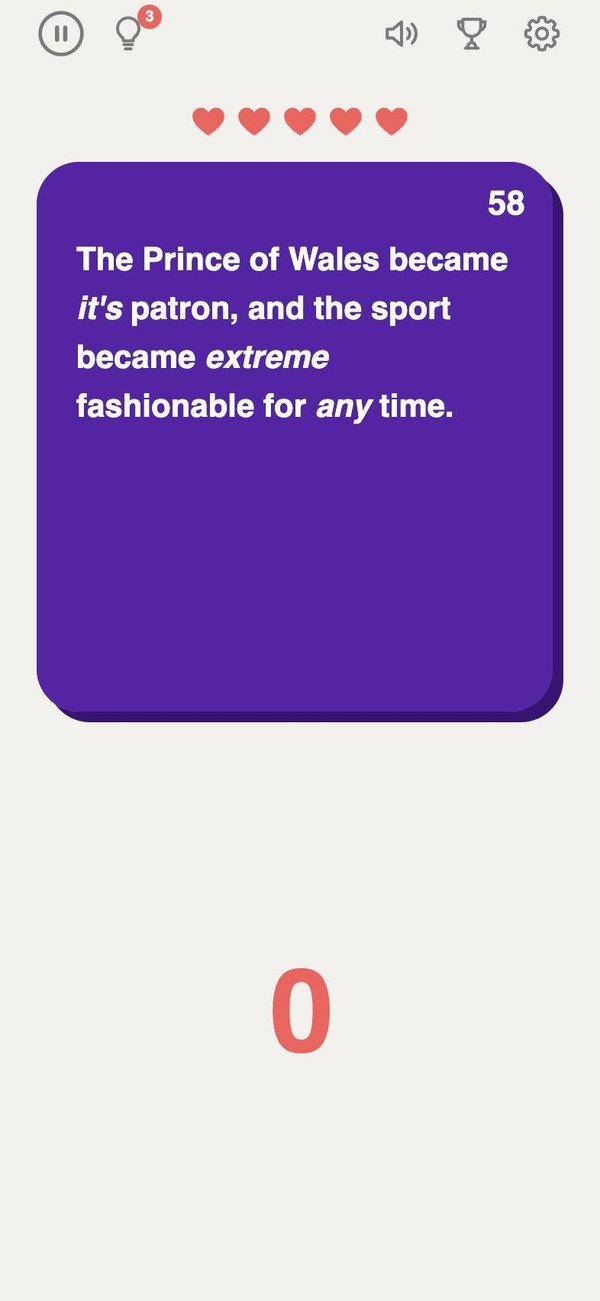
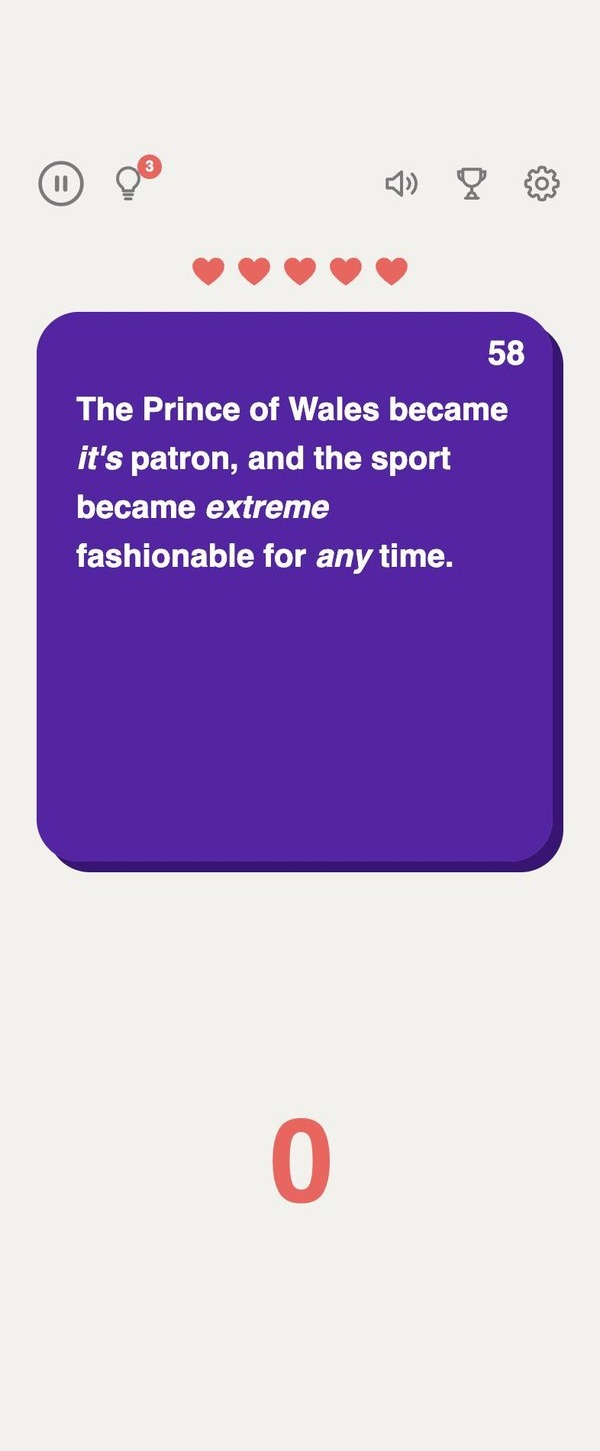
Demo RETRY/EXIT, reminder, journey fix

diff --git a/demo.js b/demo.js
@@ -36,6 +36,7 @@
   /* Scoring as in the app: first correct answer 1, then 2 each, 10 each once the score reaches 15; a hinted word is worth half (rounded up). */
   function points(hinted) { var p = S.correct === 0 ? 1 : (S.score >= 15 ? 10 : 2); return hinted ? Math.ceil(p / 2) : p; }
   var level = "easy";
+  var remind = true;
   var root = document.querySelector(".phone .mock");
   if (!root) return;
   var S = null;
@@ -64,9 +65,11 @@
       '<div class="set-btns">' + ["easy", "medium", "hard"].map(function (k) {
         return '<button class="lvl' + (k === level ? " sel" : "") + '" data-lvl="' + k + '">' + LEVELS[k].label + "</button>";
       }).join("") + "</div>" +
+      '<div class="set-rem"><span>Daily reminder</span><button class="sw' + (remind ? " on" : "") + '" role="switch" aria-checked="' + remind + '" aria-label="Daily reminder"><i></i></button></div>' +
       '<a class="set-pp" href="privacy.html">Privacy Policy</a></div>';
     on(".back", menu);
     on(".lvl", function (el) { level = el.getAttribute("data-lvl"); settings(); });
+    on(".sw", function () { remind = !remind; settings(); });
   }
 
   /* ---------- game ---------- */
@@ -75,6 +78,13 @@
     var L = LEVELS[level];
     var pool = shuffle(CARDS.filter(function (c) { return c.errors.length <= L.maxErr; }));
     S = { L: L, deck: pool.slice(0, ROUNDS), i: 0, played: 0, score: 0, correct: 0, hearts: HEARTS, hints: HINTS, timer: null, swipeTimer: null };
+    loadCard();
+  }
+  /* RETRY, as in the app: score, hearts and hints reset, but the deck continues from the card you failed on */
+  function retryGame() {
+    stopTimers();
+    var deck = S.deck.slice(S.i).concat(S.deck.slice(0, S.i));
+    S = { L: S.L, deck: deck, i: 0, played: 0, score: 0, correct: 0, hearts: HEARTS, hints: HINTS, timer: null, swipeTimer: null };
     loadCard();
   }
   function loadCard() {
@@ -212,9 +222,10 @@
         '<div class="hearts dim">' + hearts() + "</div>" +
         '<div class="chips"><span class="chip ghost"></span></div>' +
         '<div class="card dim"><span class="tm">' + S.left + '</span><div class="txt">' + S.tokens.map(function (t) { if (t.fixed) return t.err.correct === "\u2014" ? "" : esc(t.err.correct); return t.err ? '<span class="w' + (S.L.italic ? " it" : "") + '">' + esc(t.text) + "</span>" : esc(t.text); }).join("").replace(/\s{2,}/g, " ") + "</div>" +
-          '<div class="over-score">' + S.score + '</div><button class="pbtn resume mm">MAIN MENU</button></div>' +
+          '<div class="over-score">' + S.score + '</div><button class="pbtn resume retry">RETRY</button><button class="pbtn exit quitb">EXIT</button></div>' +
         '<div class="score dim">' + S.score + "</div>";
-      on(".mm", menu);
+      on(".retry", retryGame);
+      on(".quitb", menu);
       return;
     }
     root.innerHTML =

diff --git a/site.css b/site.css
@@ -89,7 +89,12 @@ section.after-feats{padding-top:3.5rem !important}
 .phone .set-btns{display:flex;flex-direction:column;gap:.75rem;width:70%;margin:auto 0}
 .phone .lvl{background:#2E1A5A;color:#fff;border:0;border-radius:999px;padding:.7rem 0;font:inherit;font-weight:800;font-size:1.05rem;cursor:pointer;box-shadow:0 .3rem 0 #B56CE0;box-sizing:border-box;border:3px solid transparent}
 .phone .lvl.sel{border-color:var(--coral)}
-.phone .set-pp{color:#8A8798;font-weight:700;font-size:.85rem;text-decoration:underline;margin-top:auto}
+.phone .set-btns{margin:auto 0 0}
+.phone .set-rem{margin-top:auto;width:84%;background:#fff;border-radius:.8rem;padding:.6rem .8rem;display:flex;align-items:center;justify-content:space-between;color:var(--ink);font-weight:600;font-size:.9rem}
+.phone .sw{width:2.6rem;height:1.5rem;border-radius:999px;border:0;background:#D9D4E3;position:relative;cursor:pointer;padding:0;transition:background .2s}
+.phone .sw i{position:absolute;top:.15rem;left:.15rem;width:1.2rem;height:1.2rem;border-radius:50%;background:#fff;box-shadow:0 1px 3px rgba(0,0,0,.25);transition:left .2s}
+.phone .sw.on{background:var(--purple)}.phone .sw.on i{left:1.25rem}
+.phone .set-pp{color:#8A8798;font-weight:700;font-size:.85rem;text-decoration:underline;margin-top:.7rem}
 .phone .hud button.ic{cursor:pointer;padding:0;background:none;border:0;font:inherit}
 .phone .mock{user-select:none;-webkit-user-select:none}
 .phone .hud .l,.phone .hud .r{display:flex;align-items:center;gap:.9rem}
@@ -203,6 +208,7 @@ body.journey-page>.wrap{width:100%;flex:none}
 .jarrow{width:2.5rem;height:auto;flex:none;margin-top:.6rem}
 .jphone{flex:0 0 15rem;position:relative;height:30rem;margin-left:.5rem}
 .jphone .phone{width:14rem;top:1.5rem;left:50%;transform:translateX(-50%) rotate(-5deg)}
+.jphone .shotimg{object-position:top}
 .jcrown{position:absolute;left:38%;top:-.4rem;width:2.6rem;height:auto;transform:rotate(-8deg);z-index:4}
 .jlab{position:absolute;z-index:3;font-family:"Chalkboard SE","Comic Sans MS","Marker Felt",cursive;font-weight:700;color:var(--purple);font-size:1.15rem;line-height:1.2;text-transform:none;letter-spacing:0}
 .jlab svg{width:3rem;height:auto;display:block}
